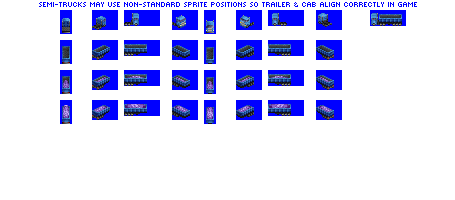
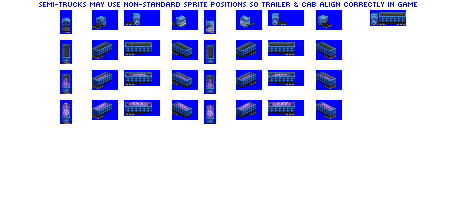
Change: improved Wookey and Powerstock dump trucks (adjusted scale to suit buses and allow older trucks to be smaller whilst not tiny-teeny); also WIP on Honister dump truck

diff --git a/src/global_constants.py b/src/global_constants.py
@@ -117,7 +117,7 @@ default_road_vehicle_offsets = {'1': [[-6, -23], [0, -17], [12, -10], [6, -11], 
                                 '4': [[-6, -20], [-6, -14], [0, -10], [0, -11], [-6, -12], [-14, -10], [-14, -10], [-8, -14]],
                                 '5': [[-6, -17], [-8, -13], [-6, -10], [-2, -11], [-6, -12], [-14, -10], [-14, -10], [-8, -13]],
                                 '6': [[-6, -16], [-10, -12], [-8, -10], [-4, -11], [-6, -15], [-14, -10], [-14, -10], [-8, -13]],
-                                '7': [[-6, -15], [-12, -12], [-14, -10], [-6, -11], [-6, -15], [-14, -10], [-14, -10], [-8, -11]],
+                                '7': [[-6, -15], [-12, -11], [-14, -10], [-6, -11], [-6, -15], [-14, -10], [-14, -10], [-8, -11]],
                                 '8': [[-6, -13], [-14, -11], [-16, -10], [-8, -11], [-6, -13], [-14, -11], [-16, -10], [-8, -11]]}
 
-semi_truck_offset_jank = [[0, 1], [-2, 1], [-4, 0], [-2, 1], [0, 0], [-2, 1], [-1, 0], [-1, 1]]
+semi_truck_offset_jank = [[0, 1], [-2, 1], [-5, 0], [-2, 1], [0, 0], [-2, 1], [-1, 0], [-1, 1]]

diff --git a/src/vehicles/powerstock.py b/src/vehicles/powerstock.py
@@ -26,7 +26,7 @@ consist.add_unit(DumpHauler(consist = consist,
 consist.add_unit(DumpHauler(consist = consist,
                         weight = 8,
                         capacity = 40,
-                        vehicle_length = 6,
+                        vehicle_length = 7,
                         spriterow_adjust = {'multiplier': 0, 'offset': 1}))
 
 consist.add_model_variant(intro_date=0,

diff --git a/src/vehicles/wookey.py b/src/vehicles/wookey.py
@@ -26,7 +26,7 @@ consist.add_unit(DumpHauler(consist = consist,
 consist.add_unit(DumpHauler(consist = consist,
                         weight = 8,
                         capacity = 40,
-                        vehicle_length = 6,
+                        vehicle_length = 7,
                         spriterow_adjust = {'multiplier': 0, 'offset': 1}))
 
 consist.add_model_variant(intro_date=0,
